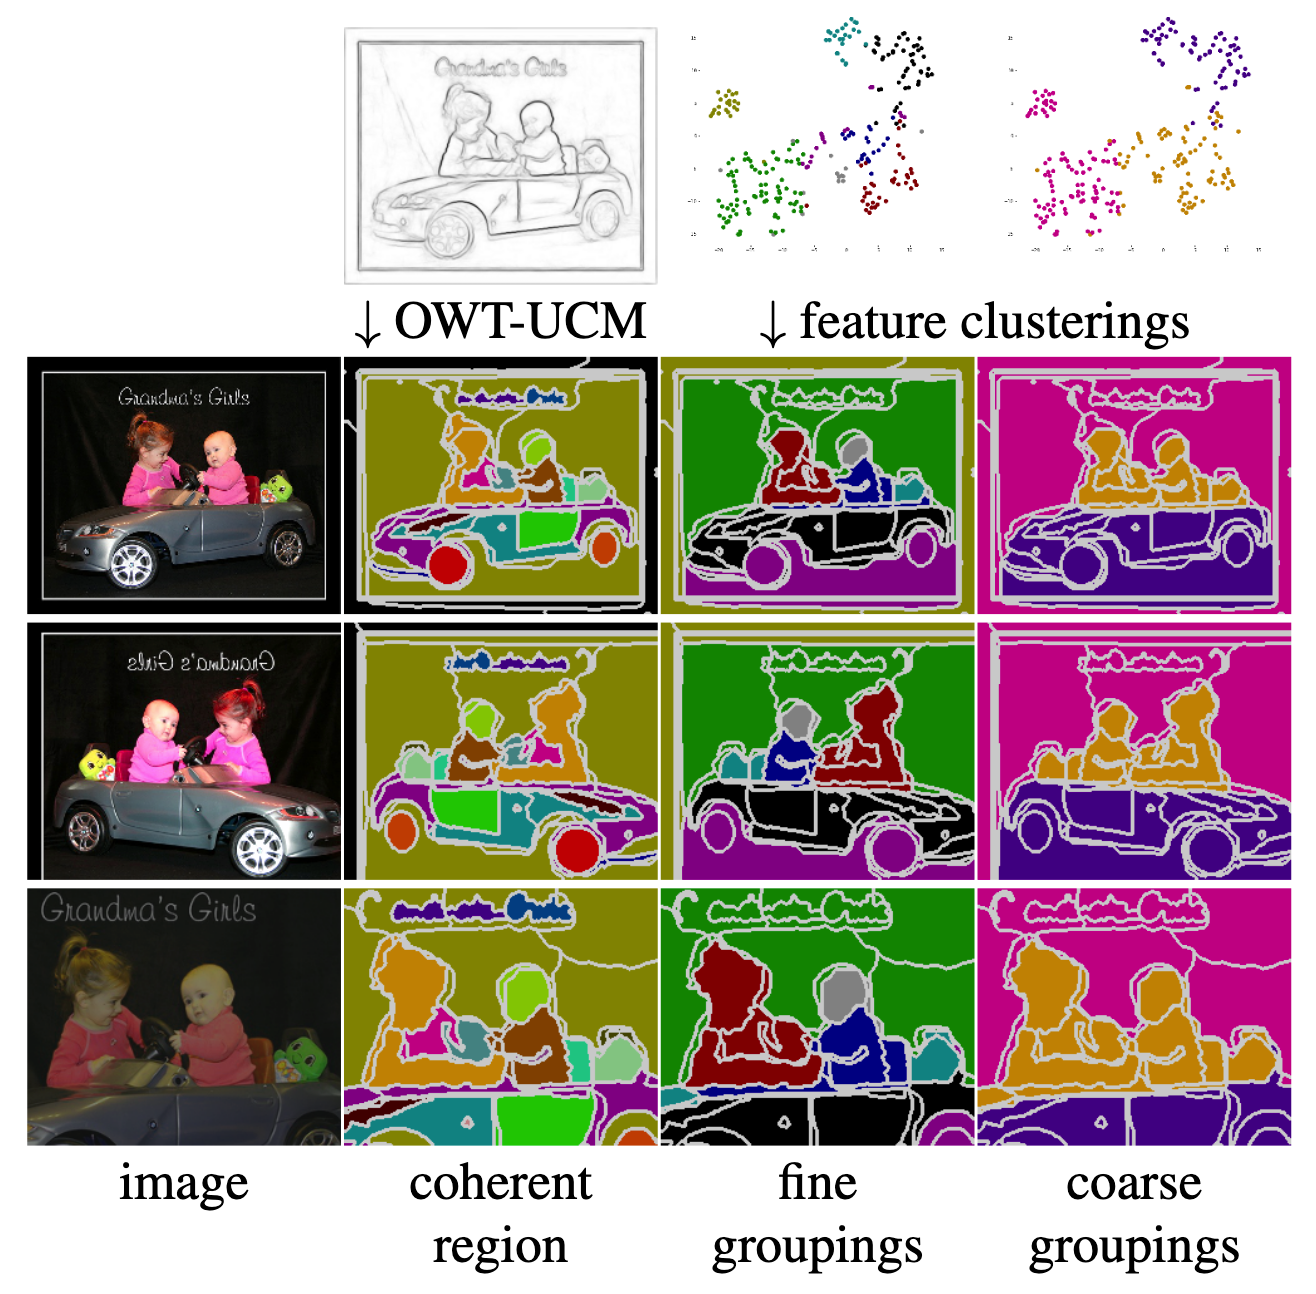
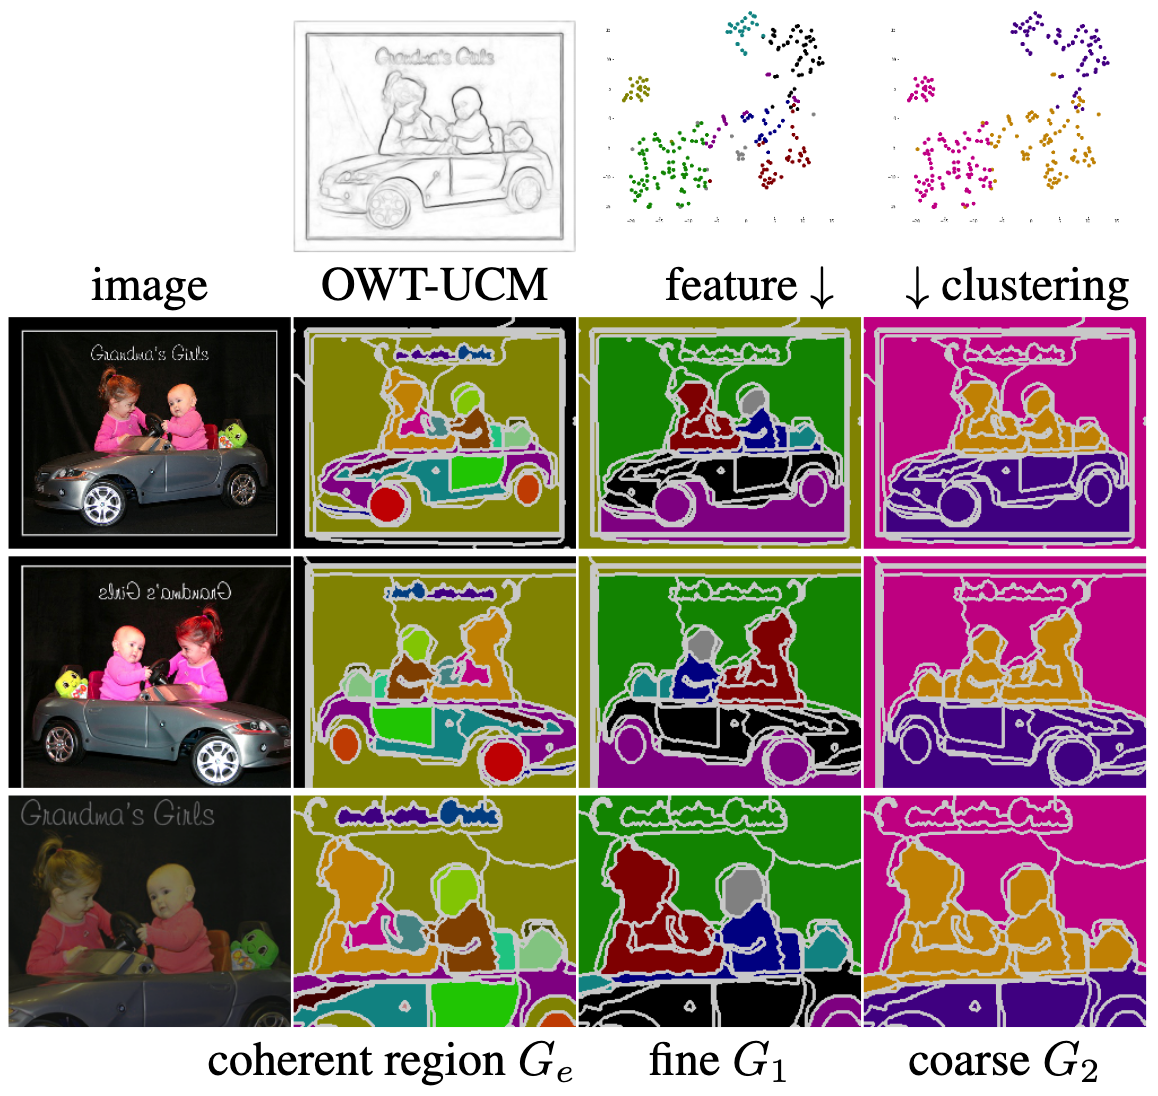
update HSG project

diff --git a/projects/hsg.html b/projects/hsg.html
@@ -130,15 +130,20 @@ year={2022}
 
 <div class="section materials">
   <h2>Method Highlight</h2>
+    <center><img src="./hsg/feature_mapping_and_grouping.png" border="0" width="70%"></center>
+    <br>
+    <p>
+    <b>Overview</b>. We aim to learn a CNN that maps each pixel to a point in the feature space <i>V</i> such that successively derived cluster features <i>X</i><sub>0</sub>, <i>X</i><sub>1</sub>, <i>X</i><sub>2</sub> produce good and consistent hierarchical pixel groupings <i>G</i><sub>e</sub>, <i>G</i><sub>1</sub>, <i>G</i><sub>2</sub>. Their consistency is enforced through clustering transformers <i>C</i><sub>l</sub><sup>l+1</sup> , which dictates how feature clusters at level <i>l</i> map to feature clusters at level <i>l+1</i>. Note that <i>G</i><sub>0</sub> results from clusters of <i>V</i> , and <i>G</i><sub>e</sub> from OWT-UCM edges. <i>P</i><sub>l</sub> is the probabilistic version of <i>G</i><sub>l</sub>, and <i>G</i><sub>l</sub> the winner-take-all binary version of <i>P</i><sub>l</sub>; <i>P</i><sub>0</sub> ∼ <i>G</i><sub>0</sub>. For <i>l</i> ≥ 0, <i>P</i><sub>l+1</sub> results from propagating <i>P</i><sub>l</sub> by <i>C</i><sub>l</sub><sup>l+1</sup> . Groupings <i>G</i><sub>e</sub>, <i>G</i><sub>1</sub>, <i>G</i><sub>2</sub> in turn impose desired feature similarity and drive feature learning. We co-segment multiple views of the same image to capture spatial consistency, visual similarity, statistical co-occurences, and semantic hierarchies.
+    </p>
     <center><img src="./hsg/framework.png" border="0" width="90%"></center>
     <br>
     <p>
-    Two essential elements of our model: <b> 1) multiview cosegmentation </b> and <b> 2) hierarchical grouping </b>.  We segment common and discriminative components simultaneously from an image and its augmentations (multiple views).  We also embrace ambiguous grouping granularity by merging segments into largers ones with our clustering transformer.  Our objective is to enforce invariant feature representations among components regardless of transformations, and also, semantic consistency across the grouping hierarchy.
+    Our model consists of two essential components: <b> 1) multiview cosegmentation </b> and <b> 2) hierarchical grouping </b>.  We first produces pixel-wise feature <i>V</i>, from which we cluster to get base cluster feature <i>X</i><sub>0</sub> and grouping <i>G</i><sub>0</sub>.  Each <i>G</i><sub>0</sub> region is split w.r.t coherent regions derived by OWT-UCM procedure, which is marked by the white lines.  We create three groupings--<i>G</i><sub>e</sub>, <i>G</i><sub>1</sub> and <i>G</i><sub>2</sub> in multiview cosegmentation fashion.  We obtain <i>G</i><sub>e</sub> by inferring the coherent region segmentation according to how each view is spatially transformed from the original image.  Starting with input <i>X</i><sub>0</sub> of an image and its augmented views, we conduct feature clustering to merge <i>G</i><sub>0</sub> into <i>G</i><sub>1</sub>, and then, <i>G</i><sub>1</sub> into <i>G</i><sub>2</sub>.  Based on <i>G</i><sub>e</sub>, <i>G</i><sub>1</sub> and <i>G</i><sub>2</sub>, we formulate a pixel-to-segment contrastive loss for each grouping.  Our HSG learns to generate discriminative representations and consistent hierarchical segmentations for the input images.
     </p>
     <center><img src="./hsg/coseg.png" border="0" width="65%"></center>
     <br>
     <p>
-    We conduct multiview cosegmentation in two separate ways: <b> 1) coherent region matching</b> and <b> 2) multi-scale feature clusterings</b>. Coherent regions are generated through a contour detection and the OWT-UCM procedure from the original image. Hierarchical segmentations emerge from multi-scale feature clusterings, which have to be consistent among different views under our cosegmentation constraints.
+    <b>Two kinds of groupings:</b> We co-segment multiple views (Column 1) of the same by OWT-UCM edges (<i>G</i><sub>e</sub>, Column 2) or by feature cluster at fine and coarse levels (<i>G</i><sub>1</sub>, <i>G</i><sub>2</sub>, Columns 3-4). White lines mark the segments derived from pixel feature clustering and OWT-UCM edges. The color of feature points (pixels) mark grouping in the feature space (segmentation in the image) consistently across rows in the same column, per spatial transformations between views. <i>G</i><sub>2</sub>’s coarse segmentations simply merge <i>G</i><sub>1</sub>’s fine segmentations, their consistency enforced by our clustering transformers.  We formulate a pixel-to-segment contrastive loss (L<sub>f</sub>) to optimize pixel-wise features w.r.t certain segmentations. Minimizing L<sub>f</sub>(<i>G</i><sub>e</sub>), L<sub>f</sub>(<i>G</i><sub>1</sub>), L<sub>f</sub>(<i>G</i><sub>2</sub>) ensures respectively that our learned feature is grounded in low-level coherence, yet with view invariance, and capable of capturing semantics at multiple levels and producing hierarchical segmentations.
     </p>
 
 </div>

diff --git a/index.html b/index.html
@@ -43,9 +43,9 @@
       <div id="paragraph">
         <div id="dialog">
           <ul>
-            <li>One paper accepted to ICLR 2021</li>
+            <li>One paper accepted to CVPR 2021</li>
               <ul style="list-style-type:circle">
-                <li>Universal Weakly Supervised Segmentation by Pixel-to-Segment Contrastive Learning</li>
+                <li>Unsupervised Hierarchical Semantic Segmentation with Multiview Cosegmentation and Clustering Transformers</li>
               </ul>
           </ul>
         </div>
@@ -56,6 +56,24 @@
     <div id="box">
       <div id="paragraph">
         <h3 class="left">Publications</h3>
+        <!-- HSG -->
+        <hr class="style-six">
+        <div id="dialog">
+          <div id="left_block">
+            <div id="pub_icon"><img id="pub_icon" src="img/pubs/hsg_cvpr2022.png" height="120%"></div>
+            <div id="pub_text">
+              <h4 class="left">Unsupervised Hierarchical Semantic Segmentation with Multiview Cosegmentation and Clustering Transformers</h4>
+              <p class="left">
+              Tsung-Wei Ke, Jyh-Jing Hwang, Yunhui Guo, Xudong Wang and Stella X. Yu<br>
+              CVPR 2022 (oral)
+              </p>
+              <div id="pub_link"><a href="http://arxiv.org/abs/2204.11432">Arxiv</a></div>
+              <div id="pub_link"><a href="https://github.com/twke18/HSG">Code</a></div>
+              <div id="pub_link"><a href="https://twke18.github.io/projects/hsg.html">Project</a></div>
+            </div>
+          </div>
+        </div>
+
         <!-- SPML -->
         <hr class="style-six">
         <div id="dialog">
